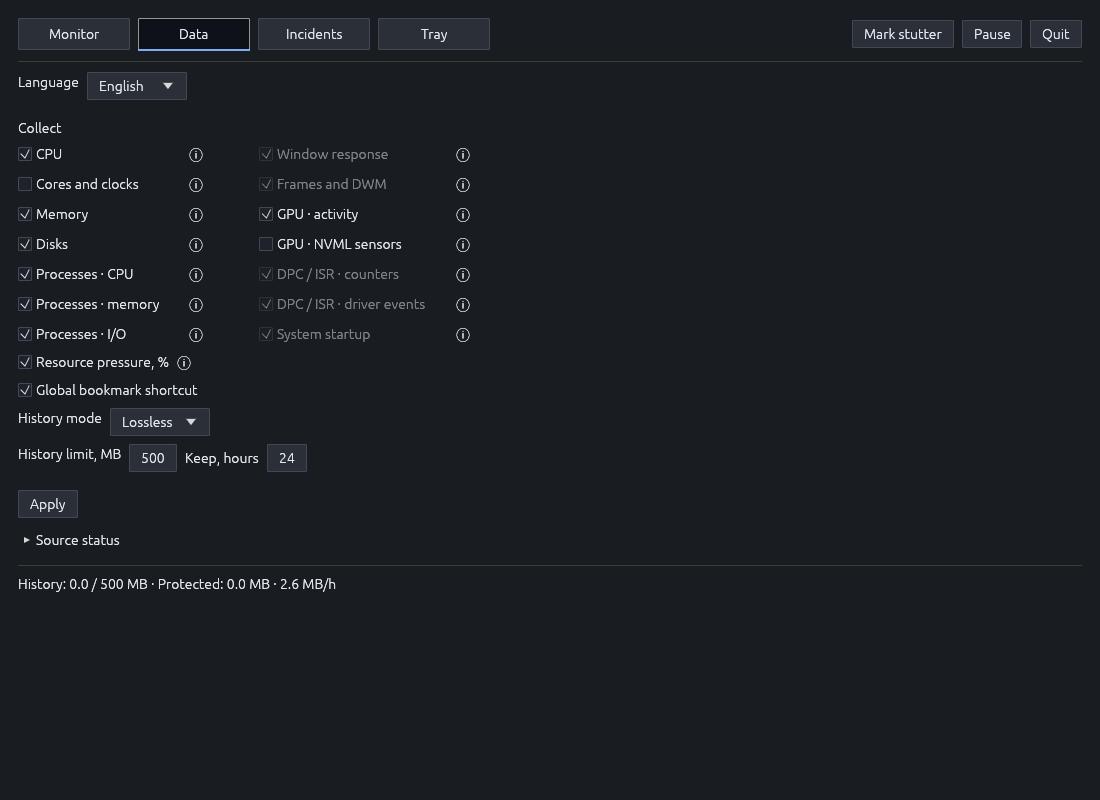
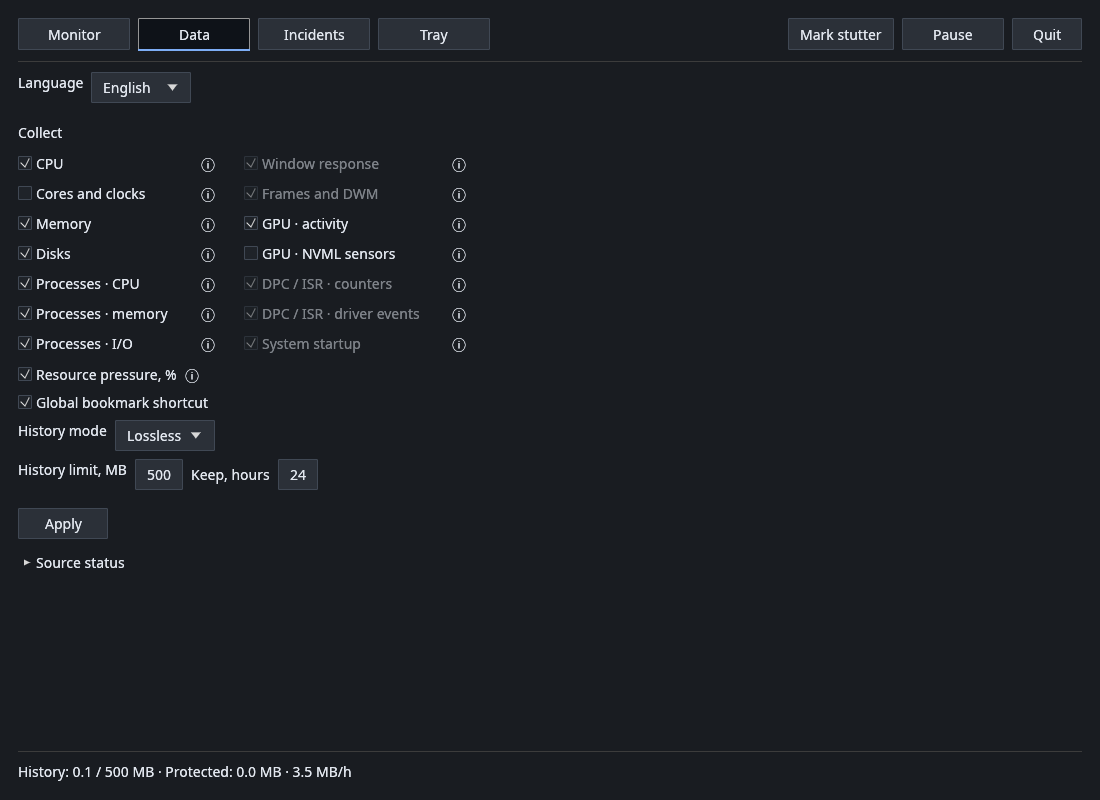
Refresh desktop screenshots with aligned controls and populated charts

diff --git a/README.md b/README.md
@@ -12,7 +12,7 @@
 
 Stutter Watch records system activity in the background and saves the context around freezes. Open an incident to inspect its charts and measurements. No accounts or log uploads.
 
-![Monitor](docs/images/linux-monitor.png)
+![Monitor](docs/images/windows-monitor.png)
 
 ## Features
 
